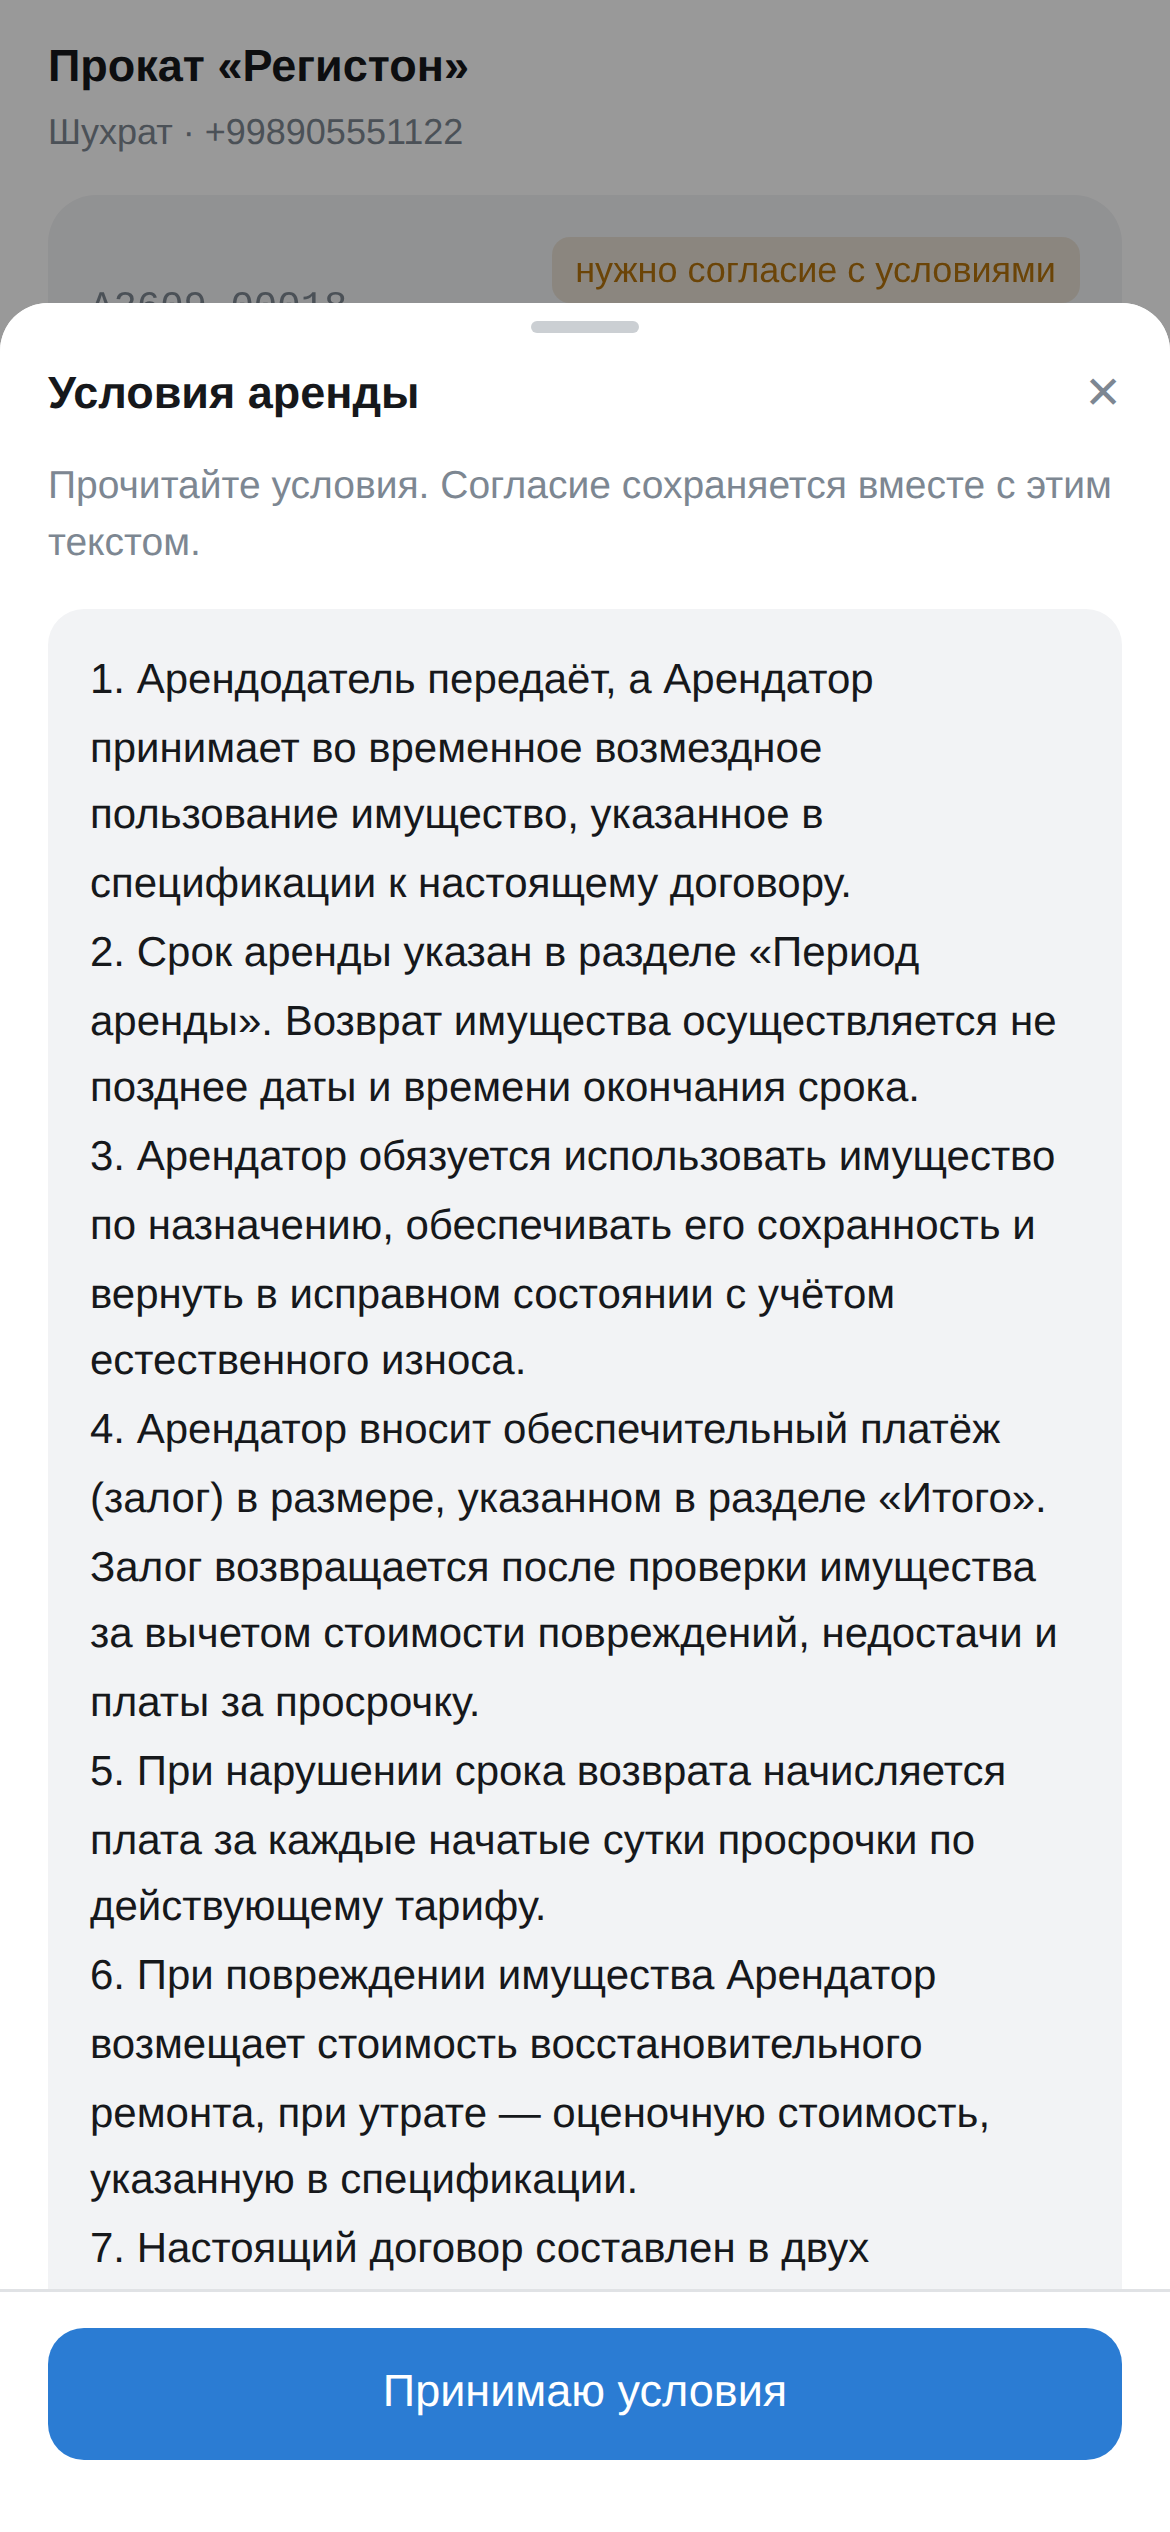
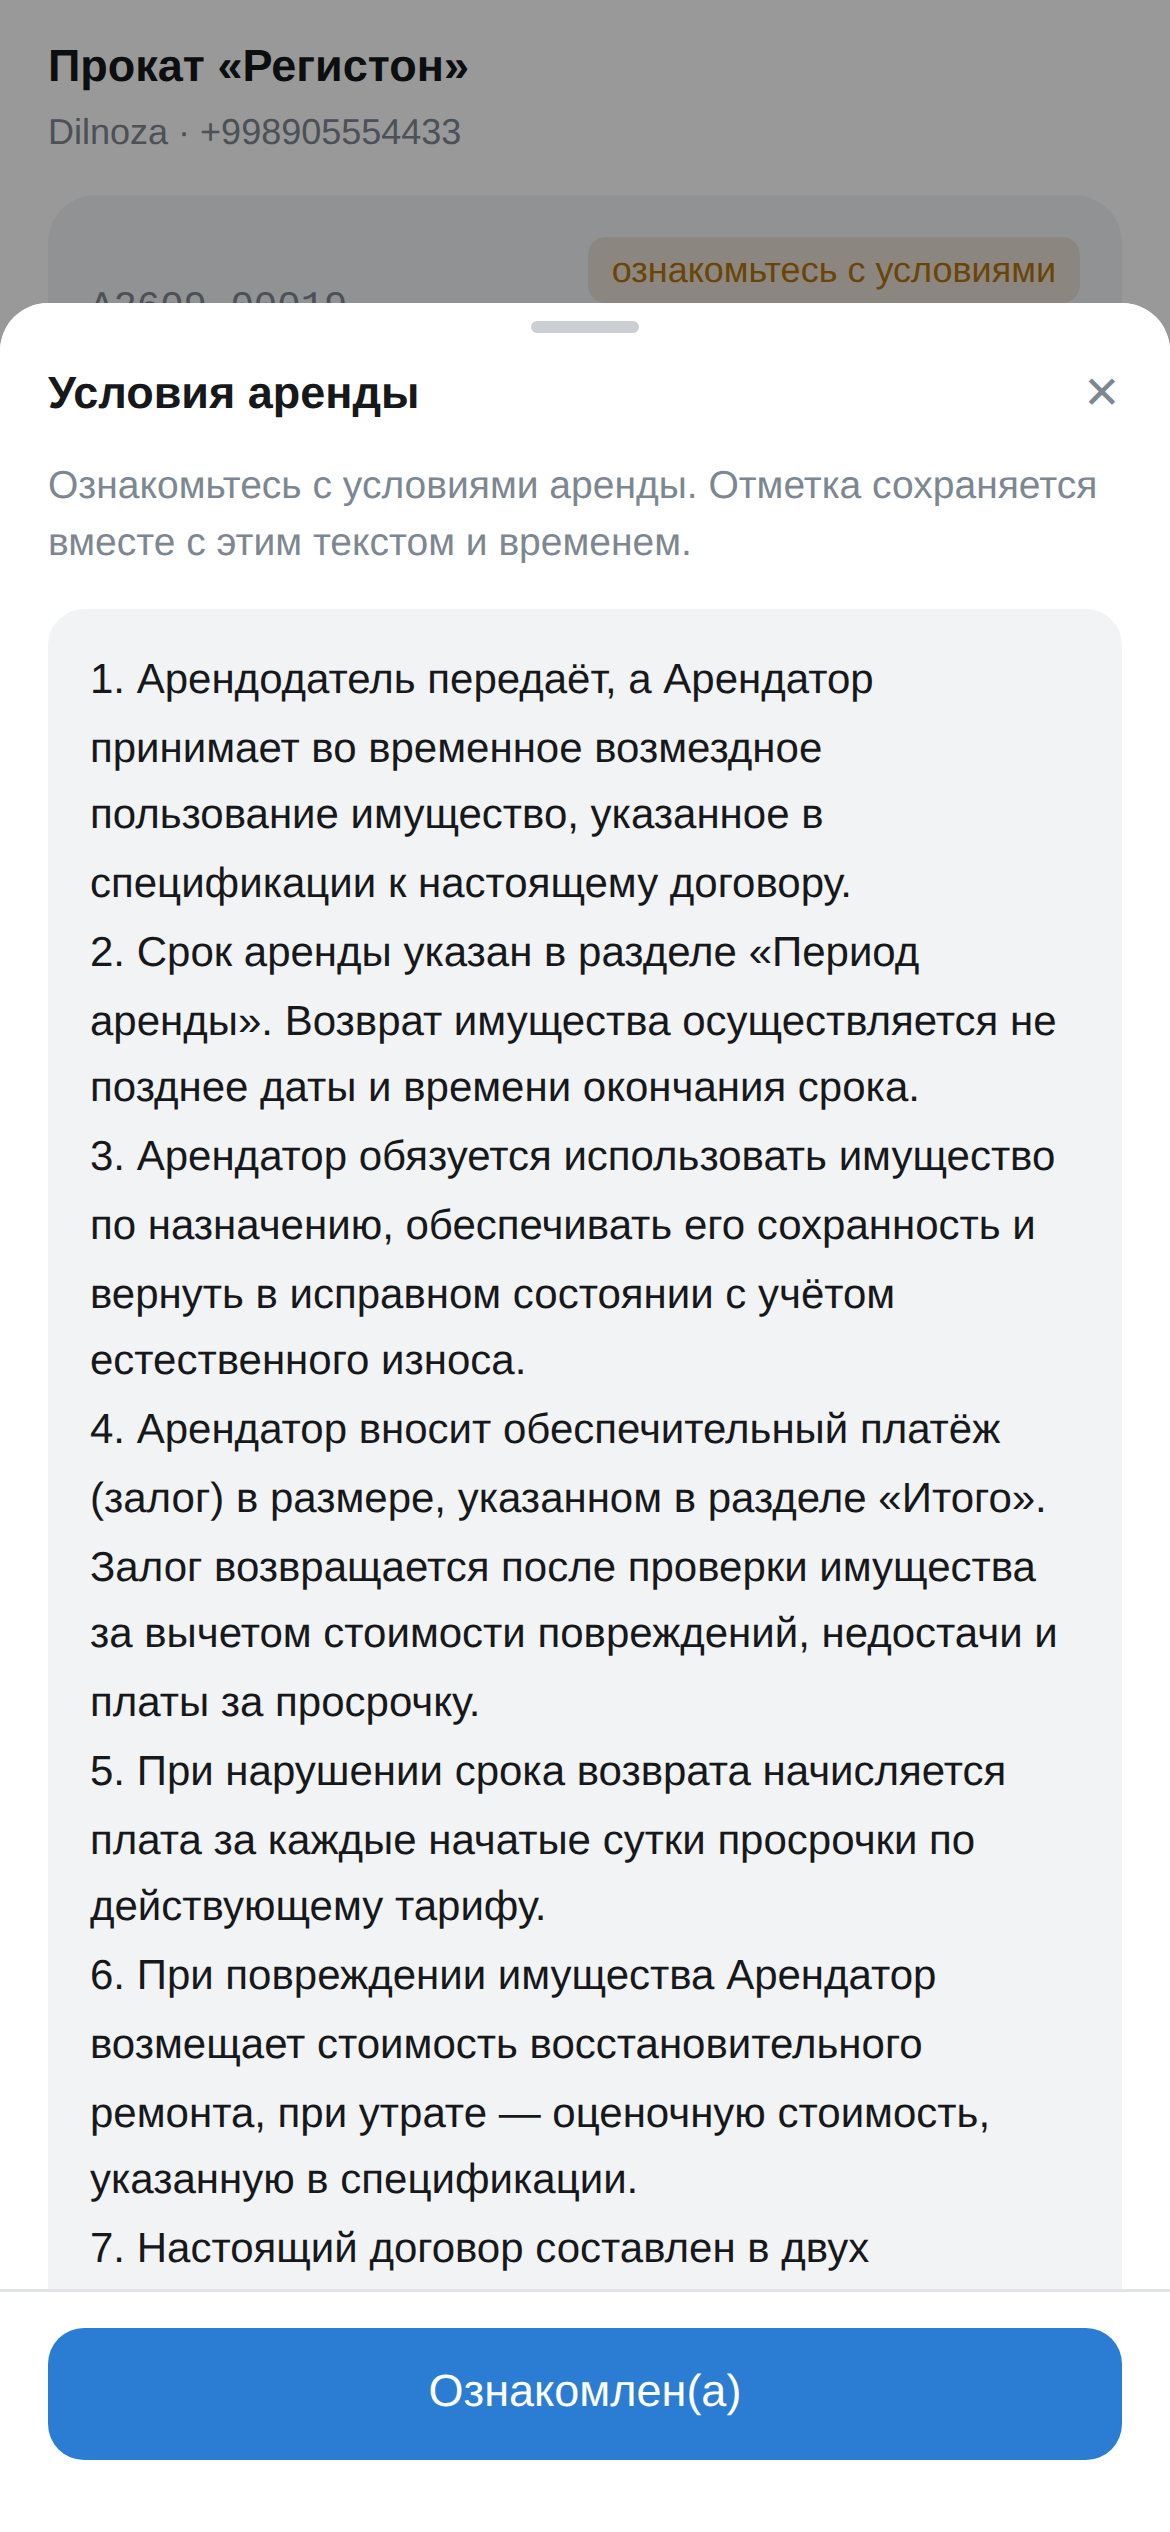
Drivers in Telegram on the site; terms are read, not accepted; no trust network
The product moved, and the site follows it:
- Delivery: the driver gets the route in Telegram and confirms every stop
  with a photo and a location. It replaces the trust-network row in the
  comparison, and the team chat shows the delivery message.
- Customers: the Mini App shows the terms to be read ("Tanishib chiqdim"),
  with answers to common questions next to them. The terms screenshot is
  retaken with the new button.
- Late returns: the team section says what the system now does on its own.
- The trust network is no longer promised: it is on hold in the product
  until its legal basis is settled.

Claude-Session: https://claude.ai/code/session_01QBS27Kr5xCfkc3F3fBsigU

diff --git a/src/i18n/ru.ts b/src/i18n/ru.ts
@@ -115,12 +115,12 @@ export const ru: Content = {
       {
         icon: 'Truck',
         title: 'Доставка',
-        text: 'Рейсы, водители и адреса: понятно, кто, когда и что везёт.',
+        text: 'Рейсы и порядок адресов. Водитель получает рейс в Telegram и подтверждает каждую доставку фото и геопозицией.',
       },
       {
         icon: 'UserCheck',
         title: 'Клиенты и доверие',
-        text: 'История и рейтинг надёжности каждого клиента. Чёрный список и сеть доверия между прокатами.',
+        text: 'История, рейтинг надёжности и чёрный список. О просроченном возврате система напомнит сама.',
       },
       {
         icon: 'ChartColumn',
@@ -165,7 +165,7 @@ export const ru: Content = {
     bullets: [
       'Каталог, цены и календарь свободных дней',
       'Бронирование, оплата и продление — самим клиентом',
-      'Условия аренды клиент читает и принимает в приложении',
+      'С условиями аренды клиент знакомится в приложении, там же — ответы на частые вопросы',
       'Сообщения о статусе заказа на узбекском или русском',
     ],
     frameClose: 'Закрыть',
@@ -179,7 +179,7 @@ export const ru: Content = {
       {
         key: 'orders',
         caption: 'Оплата и продление',
-        alt: 'Заказы клиента: оплата аренды и залога, принятие условий, продление',
+        alt: 'Заказы клиента: оплата аренды и залога, знакомство с условиями, продление',
       },
       {
         key: 'extend',
@@ -188,8 +188,8 @@ export const ru: Content = {
       },
       {
         key: 'terms',
-        caption: 'Принятие условий',
-        alt: 'Текст условий аренды и кнопка «Принимаю условия»',
+        caption: 'Знакомство с условиями',
+        alt: 'Текст условий аренды и кнопка «Ознакомлен(а)»',
       },
     ],
   },
@@ -233,6 +233,7 @@ export const ru: Content = {
     bullets: [
       'Группа подключается одноразовым кодом',
       'Роли: владелец, менеджер, кладовщик, продавец, водитель',
+      'Просроченный возврат: через час — напоминание клиенту, через сутки — вам',
       'Каждое действие в журнале: кто, когда и что изменил',
     ],
     chat: {
@@ -255,6 +256,10 @@ export const ru: Content = {
         {
           text: '⚠ Заказ **A2609-00005** просрочен (срок 27.09, 14:00)\n👤 Дилноза Рахимова',
           time: '14:05',
+        },
+        {
+          text: '✅ **A2609-00014** · доставка — выполнено · 15:32\n🚚 Жасур Норов\n📍 На карте · 40 м от адреса\n📷 Фото: 2',
+          time: '15:32',
         },
       ],
     },
@@ -281,8 +286,8 @@ export const ru: Content = {
       },
       { label: 'Учёт залогов и долгов', values: ['yes', 'yes', 'partial', 'no'] as Mark[] },
       {
-        label: 'Сеть доверия между прокатами',
-        values: ['yes', 'no', 'no', 'no'] as Mark[],
+        label: 'Водитель в Telegram: подтверждение фото и геопозицией',
+        values: ['yes', 'partial', 'partial', 'no'] as Mark[],
       },
     ],
     legend: { yes: 'есть', partial: 'частично', no: 'нет' },

diff --git a/src/i18n/uz.ts b/src/i18n/uz.ts
@@ -125,12 +125,12 @@ export const uz = {
       {
         icon: 'Truck',
         title: 'Yetkazib berish',
-        text: 'Reyslar, haydovchilar va manzillar: kim, qachon, nimani olib borishi aniq.',
+        text: 'Reyslar va manzillar tartibi. Haydovchi reysni Telegram’da oladi va har bir yetkazishni rasm va joylashuv bilan tasdiqlaydi.',
       },
       {
         icon: 'UserCheck',
         title: 'Mijozlar va ishonch',
-        text: 'Har bir mijozning tarixi va ishonchlilik reytingi. Qora ro‘yxat va ijara xizmatlari o‘rtasida ishonch tarmog‘i.',
+        text: 'Har bir mijozning tarixi, ishonchlilik reytingi va qora ro‘yxat. Kechikkan buyumni tizimning o‘zi eslatadi.',
       },
       {
         icon: 'ChartColumn',
@@ -175,7 +175,7 @@ export const uz = {
     bullets: [
       'Katalog, narxlar va bo‘sh kunlar kalendari',
       'Band qilish, to‘lash va muddatni uzaytirish — mijozning o‘zi',
-      'Ijara shartlarini ilovada o‘qib, qabul qiladi',
+      'Ijara shartlari bilan ilovada tanishadi, ko‘p so‘raladigan savollarga javob ham shu yerda',
       'Buyurtma holati haqida xabarlar o‘zbek yoki rus tilida',
     ],
     frameClose: 'Yopish',
@@ -189,7 +189,7 @@ export const uz = {
       {
         key: 'orders',
         caption: 'To‘lash va uzaytirish',
-        alt: 'Mijoz buyurtmalari: ijarani va garovni to‘lash, shartlarni qabul qilish, uzaytirish',
+        alt: 'Mijoz buyurtmalari: ijarani va garovni to‘lash, shartlar bilan tanishish, uzaytirish',
       },
       {
         key: 'extend',
@@ -198,8 +198,8 @@ export const uz = {
       },
       {
         key: 'terms',
-        caption: 'Shartlarni qabul qilish',
-        alt: 'Ijara shartlari matni va «Shartlarni qabul qilaman» tugmasi',
+        caption: 'Shartlar bilan tanishish',
+        alt: 'Ijara shartlari matni va «Tanishib chiqdim» tugmasi',
       },
     ],
   },
@@ -243,6 +243,7 @@ export const uz = {
     bullets: [
       'Guruh bir martalik kod bilan ulanadi',
       'Rollar: egasi, menejer, omborchi, sotuvchi, haydovchi',
+      'Kechikkan qaytarish: 1 soatdan keyin mijozga eslatma, 1 kundan keyin — sizga',
       'Har bir harakat jurnalda: kim, qachon, nimani o‘zgartirdi',
     ],
     chat: {
@@ -265,6 +266,10 @@ export const uz = {
         {
           text: '⚠ **A2609-00005** buyurtmasi muddati o‘tdi (muddat 27.09, 14:00)\n👤 Dilnoza Rahimova',
           time: '14:05',
+        },
+        {
+          text: '✅ **A2609-00014** · yetkazish — bajarildi · 15:32\n🚚 Jasur Norov\n📍 Xaritada · manzildan 40 m\n📷 Rasmlar: 2',
+          time: '15:32',
         },
       ],
     },
@@ -291,8 +296,8 @@ export const uz = {
       },
       { label: 'Garov va qarzlar hisobi', values: ['yes', 'yes', 'partial', 'no'] as Mark[] },
       {
-        label: 'Ijara xizmatlari o‘rtasida ishonch tarmog‘i',
-        values: ['yes', 'no', 'no', 'no'] as Mark[],
+        label: 'Haydovchi Telegram’da: rasm va joylashuv bilan tasdiq',
+        values: ['yes', 'partial', 'partial', 'no'] as Mark[],
       },
     ],
     legend: { yes: 'bor', partial: 'qisman', no: 'yo‘q' },
